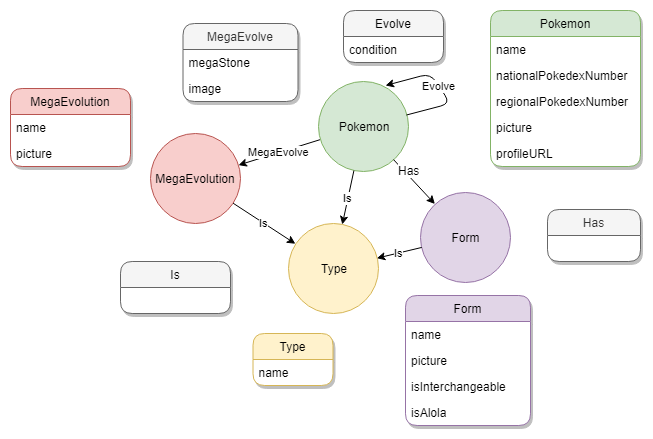
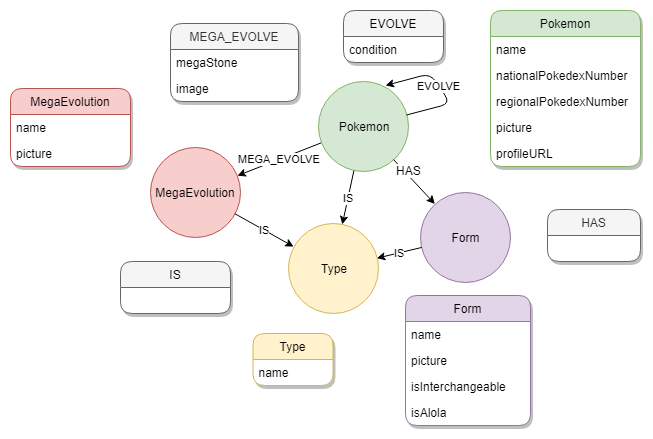
Update image and readme

diff --git a/README.md b/README.md
@@ -16,4 +16,4 @@ The database has four nodes labels and four relationships labels:
     - Is: the pokemon type relationship with Pokémon (Ex.: Pikachu is Eletric);
     - Evolve: relationship between the pokemon nodes, to represent the evolutions (Ex.: Charmander evolve to Charmeleon);
     - Has: the relationship between the forms and pokémons (Ex.: Deoxys has Attack Forme);
-    - MegaEvolve: to represent the mega evolution of pokemons (Ex.: Absol mega evolve to Mega Absol).
+    - Mega_Evolve: to represent the mega evolution of pokemons (Ex.: Absol mega evolve to Mega Absol).
